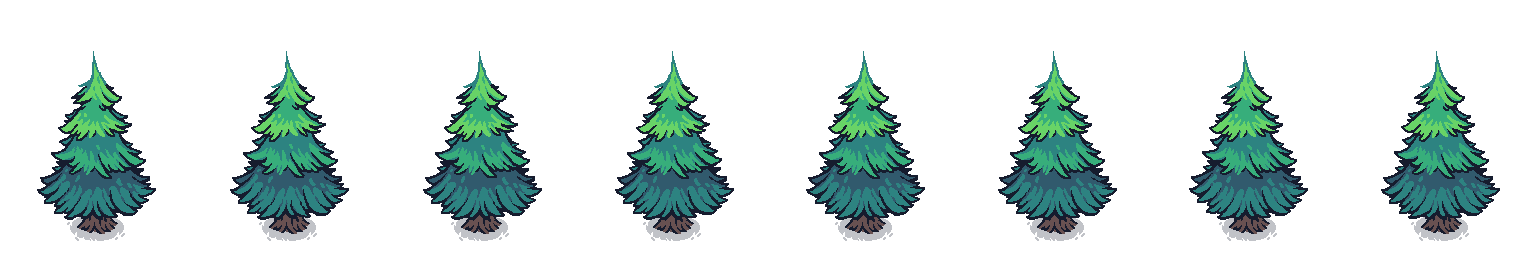
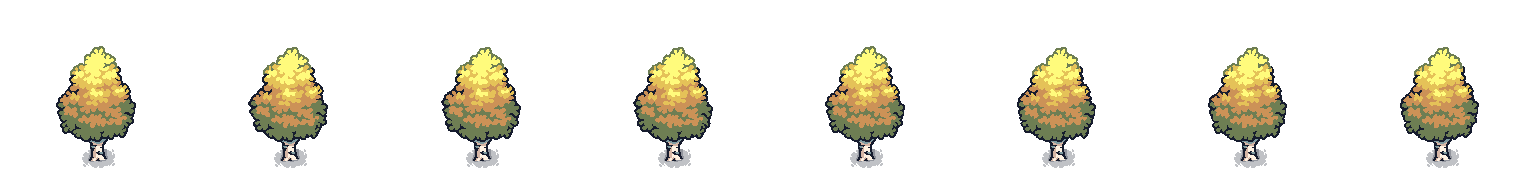
STO INIZIANDO A IMPAZZIRE

Changed region(s): [[0.0, 0.25, 1.0, 0.9375]]

diff --git a/src/view/renderer/object/TreeRenderer.java b/src/view/renderer/object/TreeRenderer.java
@@ -10,56 +10,84 @@ import java.awt.image.BufferedImage;
 import java.util.HashMap;
 import java.util.Map;
 
-import static main.CONFIG.EntityConfig.*;
 import static main.CONFIG.ObjConfig.*;
 import static main.CONFIG.enu.TreeState.*;
-/**
- * The TREE RENDERER CLASS is responsible for rendering the visual representation of the tree objects, managing their animations and states.
- */
+
 public class TreeRenderer extends ObjectRender<OBJ_Tree> {
 
     private final Map<OBJ_Tree, AnimationManager> managerByTree = new HashMap<>();
-    private final BufferedImage[] leavesFrames;
-    private final BufferedImage choppedFrame;
 
-    // TODO caricare le informazioni dal file
-    public TreeRenderer(){
-        BufferedImage sheetImage = SpriteLoader.loadSpriteSheet("/res/object/tree/Tree1.png");
+    private final BufferedImage[] leavesFrames01;
+    private final BufferedImage[] leavesFrames02;
+    private final BufferedImage[] leavesFrames03;
 
-        // Extract the tree sprite from the sprite sheet
-        leavesFrames = SpriteLoader.getAnimationFrames(sheetImage, 0, 1, 8, TREE_03_WIDTH, TREE_03_HEIGHT);
-        
-        // Fallback frame used when the tree is chopped
-        choppedFrame = SpriteLoader.loadSpriteSheet("/res/object/tree/Stump_1.png");
+    private final BufferedImage choppedFrame01;
+    private final BufferedImage choppedFrame02;
+    private final BufferedImage choppedFrame03;
+
+    public TreeRenderer() {
+        BufferedImage tree01Sheet = SpriteLoader.loadSpriteSheet("/res/object/tree/Tree1.png");
+        BufferedImage tree02Sheet = SpriteLoader.loadSpriteSheet("/res/object/tree/Tree2.png");
+        BufferedImage tree03Sheet = SpriteLoader.loadSpriteSheet("/res/object/tree/Tree3.png");
+
+        leavesFrames01 = SpriteLoader.getAnimationFrames(tree01Sheet, 0, 1, 8, TREE_01_WIDTH, TREE_01_HEIGHT);
+        leavesFrames02 = SpriteLoader.getAnimationFrames(tree02Sheet, 0, 1, 8, TREE_02_WIDTH, TREE_02_HEIGHT);
+        leavesFrames03 = SpriteLoader.getAnimationFrames(tree03Sheet, 0, 1, 8, TREE_03_WIDTH, TREE_03_HEIGHT);
+
+        choppedFrame01 = SpriteLoader.loadSpriteSheet("/res/object/tree/Stump_1.png");
+        choppedFrame02 = SpriteLoader.loadSpriteSheet("/res/object/tree/Stump_2.png");
+        choppedFrame03 = SpriteLoader.loadSpriteSheet("/res/object/tree/Stump_3.png");
+    }
+
+    private BufferedImage[] getLeavesFramesByName(String name) {
+        if (name == null) return leavesFrames03;
+        return switch (name.trim().toUpperCase()) {
+            case "TREE_01", "TREES_01" -> leavesFrames01;
+            case "TREE_02", "TREES_02" -> leavesFrames02;
+            case "TREE_03", "TREES_03" -> leavesFrames03;
+            default -> leavesFrames03;
+        };
+    }
+
+    private BufferedImage getChoppedFrameByName(String name) {
+        if (name == null) return choppedFrame03;
+        return switch (name.trim().toUpperCase()) {
+            case "TREE_01", "TREES_01" -> choppedFrame01;
+            case "TREE_02", "TREES_02" -> choppedFrame02;
+            case "TREE_03", "TREES_03" -> choppedFrame03;
+            default -> choppedFrame03;
+        };
     }
 
     private AnimationManager getManager(OBJ_Tree tree) {
         return managerByTree.computeIfAbsent(tree, t -> {
             AnimationManager manager = new AnimationManager();
-            manager.addAnimation("tree_idle", new Animation(leavesFrames, 100, true));
+
+            BufferedImage[] leavesFrames = getLeavesFramesByName(t.getName());
+            BufferedImage choppedFrame = getChoppedFrameByName(t.getName());
+
+            manager.addAnimation("tree_idle", new Animation(leavesFrames, TREE_IDLE_FRAME_MS, true));
             manager.addAnimation("tree_chopped", new Animation(new BufferedImage[]{choppedFrame}, 1000, false));
+
             return manager;
         });
     }
 
-   @Override
+    @Override
     public void update(OBJ_Tree tree, double deltaMs) {
         AnimationManager animationManager = getManager(tree);
         animationManager.playAnimation("tree_idle");
-   
-        // Se l'albero viene colpito, aggiorna più velocemente
+
         if (tree.getState() == CHOPPING) {
-            animationManager.update(deltaMs * 2.5); 
+            animationManager.update(deltaMs * 2.5);
         } else {
-            animationManager.update(deltaMs); 
-
+            animationManager.update(deltaMs);
         }
-        
-        tree.update(deltaMs);
 
+        tree.update(deltaMs);
     }
 
-   @Override
+    @Override
     public void draw(Graphics2D g2, OBJ_Tree tree, int screenX, int screenY) {
         AnimationManager animationManager = getManager(tree);
 
@@ -67,8 +95,8 @@ public class TreeRenderer extends ObjectRender<OBJ_Tree> {
         int drawY = screenY + tree.getShakeOffsetY();
 
         switch (tree.getState()) {
-
             case CHOPPED -> {
+                BufferedImage choppedFrame = getChoppedFrameByName(tree.getName());
                 g2.drawImage(choppedFrame, drawX, drawY, tree.getWidth(), tree.getHeight(), null);
             }
 
@@ -78,6 +106,4 @@ public class TreeRenderer extends ObjectRender<OBJ_Tree> {
             }
         }
     }
-
-    
 }

diff --git a/src/model/GameModel.java b/src/model/GameModel.java
@@ -7,9 +7,7 @@ import main.CONFIG.enu.GameState;
 import main.CONFIG.enu.PlayerState;
 import main.CONFIG.enu.MonkState;
 import main.CONFIG.enu.TNTState;
-import main.CONFIG.enu.TreeState;
 import main.CONFIG.GameConfig;
-import model.CollisionChecker;
 import model.entity.Player;
 import model.entity.Monk;
 import model.object.GameObject;
@@ -214,18 +212,35 @@ public class GameModel {
      */
     //-------------------------------------------------------------
     private void initialieOBJ(){
+        ObjConfig objC = gameConfig.ObjConfig();
+        Rectangle solidArea = new Rectangle(objC.TREE_03_WIDTH/2 - (objC.TREE_HITBOX_WIDTH/2),
+                195, //TODO better
+                objC.TREE_HITBOX_WIDTH,
+                objC.TREE_HITBOX_HEIGHT);
         //load the first type of tree
         for (SpawnPoint sp : gameConfig.ObjConfig().TREES_03_SPAWNPOINT()) {
-            objects.add(new OBJ_Tree(sp.x(), sp.y(), gameConfig.ObjConfig()));
+            objects.add(new OBJ_Tree(objC.TREE_TAG_03(),
+                            sp.x(), sp.y(), sp.layer(),
+                            objC.TREE_03_WIDTH, objC.TREE_03_HEIGHT,solidArea,
+                            gameConfig.ObjConfig()));
         }
+        Rectangle solidArea2 = new Rectangle(objC.TREE_02_WIDTH/2 - (objC.TREE_HITBOX_WIDTH/2),
+                135, //TODO better
+                objC.TREE_HITBOX_WIDTH,
+                objC.TREE_HITBOX_HEIGHT);
         // load the second type of tree
         for (SpawnPoint sp : gameConfig.ObjConfig().TREES_02_SPAWNPOINT()) {
-            objects.add(new OBJ_Tree(sp.x(), sp.y(), gameConfig.ObjConfig()));
-
+            objects.add(new OBJ_Tree(objC.TREE_TAG_02(),
+                    sp.x(), sp.y(), sp.layer(),
+                    objC.TREE_02_WIDTH, objC.TREE_02_HEIGHT,solidArea2,
+                    gameConfig.ObjConfig()));
         }
         // load the third type of tree
         for (SpawnPoint sp : gameConfig.ObjConfig().TREES_01_SPAWNPOINT()) {
-            objects.add(new OBJ_Tree(sp.x(), sp.y(), gameConfig.ObjConfig()));
+            objects.add(new OBJ_Tree(objC.TREE_TAG_01(),
+                    sp.x(), sp.y(), sp.layer(),
+                    objC.TREE_01_WIDTH, objC.TREE_01_HEIGHT,solidArea2,
+                    gameConfig.ObjConfig()));
         }
 
     }

diff --git a/src/view/UI/UI.java b/src/view/UI/UI.java
@@ -6,6 +6,8 @@ import model.entity.EnemyDynamite;
 import model.entity.EnemyTNT;
 import model.entity.Monk;
 import model.entity.Player;
+import model.object.GameObject;
+import model.object.OBJ_Tree;
 import view.renderer.entity.DynamiteRender;
 import view.renderer.entity.MonkRenderer;
 import view.renderer.entity.PlayerRender;
@@ -242,7 +244,8 @@ public class UI {
                 tnt.getWorldY() - gameModel.getPlayer().getWorldY() + gameModel.getPlayer().getScreenY()
                 );
             }
-            
+
+            drawTreeSolidAreas();
 
             // FPS overlay (updates every second)
             frames++;
@@ -258,6 +261,26 @@ public class UI {
             int xTile = (gameModel.getPlayer().getWorldX() + gameModel.getPlayer().getSolidArea().x )/ screenConfig.TILE_SIZE();
             int yTile = (gameModel.getPlayer().getWorldY() + gameModel.getPlayer().getSolidArea().y )/ screenConfig.TILE_SIZE();
             g2.drawString("FPS: " + fps + " PLAYER X: "+xTile+", Y:"+yTile+" L: "+gameModel.getPlayer().getCurrentLayer(), 10, 18);
+        }
+    }
+
+    private void drawTreeSolidAreas() {
+        Player player = gameModel.getPlayer();
+        for (GameObject obj : gameModel.getObjects()) {
+            if (!(obj instanceof OBJ_Tree tree)) continue;
+            if (!tree.isSolid() || tree.getSolidArea() == null) continue;
+
+            Rectangle solid = tree.getSolidArea();
+            int screenX = tree.getWorldX() - player.getWorldX() + player.getScreenX();
+            int screenY = tree.getWorldY() - player.getWorldY() + player.getScreenY();
+
+            int drawX = screenX + solid.x;
+            int drawY = screenY + solid.y;
+
+            g2.setColor(new Color(0, 255, 255, 80));
+            g2.fillRect(drawX, drawY, solid.width, solid.height);
+            g2.setColor(Color.CYAN);
+            g2.drawRect(drawX, drawY, solid.width, solid.height);
         }
     }
 

diff --git a/src/main/CONFIG/GameConfig.java b/src/main/CONFIG/GameConfig.java
@@ -39,9 +39,9 @@ public final class GameConfig {
     private static final String DYNAMITE_NAME = "Dynamite_spawnPoint";
     private static final String START_LAYER_PROP = "StartLayer";
 
-    private static final String TREE_03_NAME = "trees_03";
-    private static final String TREE_02_NAME = "trees_02";
-    private static final String TREE_01_NAME = "trees_01";
+    private static final String TREE_TAG_03 = "trees_03";
+    private static final String TREE_TAG_02 = "trees_02";
+    private static final String TREE_TAG_01 = "trees_01";
     //-------------------------------------------------------------
 
     // CONFIG
@@ -89,16 +89,16 @@ public final class GameConfig {
         ArrayList<SpawnPoint> dynamiteSpawnPoint = loadEntitySpawns(DYNAMITE_NAME);
 
         //load the tree spawns
-        ArrayList<SpawnPoint> treeSpawns03 = loadOBJSpawns(TREE_03_NAME, 3);
-        ArrayList<SpawnPoint> treeSpawns02 = loadOBJSpawns(TREE_02_NAME, 3);
-        ArrayList<SpawnPoint> treeSpawns01 = loadOBJSpawns(TREE_01_NAME, 3);
+        ArrayList<SpawnPoint> treeSpawns03 = loadOBJSpawns(TREE_TAG_03, 3);
+        ArrayList<SpawnPoint> treeSpawns02 = loadOBJSpawns(TREE_TAG_02, 2);
+        ArrayList<SpawnPoint> treeSpawns01 = loadOBJSpawns(TREE_TAG_01, 1);
 
 
         //create the config
         this.screenConfig = new ScreenConfig(TILE_SIZE, GAME_BG_COLOR);
         this.mapConfig = new MapConfig(TILE_SIZE, MAX_WORLD_COL, MAX_WORLD_ROW);
         this.entityConfig = new EntityConfig(screenConfig, playerSpawnPoint,monkSpawnPoint,tntSpawPoint);
-        this.ObjConfig = new ObjConfig(treeSpawns03, treeSpawns02, treeSpawns01);
+        this.ObjConfig = new ObjConfig(TREE_TAG_03, TREE_TAG_02, TREE_TAG_01, treeSpawns03, treeSpawns02, treeSpawns01);
         this.UIConfig = new UIConfig();
     }//end constructor
     //-------------------------------------------------------------

diff --git a/src/main/CONFIG/ObjConfig.java b/src/main/CONFIG/ObjConfig.java
@@ -10,7 +10,10 @@ import java.util.ArrayList;
  * OBJ SETTINGS
  */
 //----------------------------------------------------------------------------------------------------------------------
-public record ObjConfig(ArrayList<SpawnPoint> tree03SpawnPoint,
+public record ObjConfig(String TREE_TAG_03,
+                        String TREE_TAG_02,
+                        String TREE_TAG_01,
+                        ArrayList<SpawnPoint> tree03SpawnPoint,
                         ArrayList<SpawnPoint> tree02SpawnPoint,
                         ArrayList<SpawnPoint> tree01SpawnPoint) {
     //TREE (COMMON)
@@ -24,7 +27,6 @@ public record ObjConfig(ArrayList<SpawnPoint> tree03SpawnPoint,
     //-------------------------------------------------------------
 
     // TREE 03
-    public static final String TREE_TAG_03 = "trees_03";
     public static final int TREE_03_WIDTH = 192; //TODO from file
     public static final int TREE_03_HEIGHT = 256;
 
@@ -32,17 +34,15 @@ public record ObjConfig(ArrayList<SpawnPoint> tree03SpawnPoint,
     //-------------------------------------------------------------
 
     // TREE 02
-    public static final String TREE_TAG_02 = "trees_02";
     public static final int TREE_02_WIDTH = 192;
-    public static final int TREE_02_HEIGHT = 256;
+    public static final int TREE_02_HEIGHT = 192;
 
     public ArrayList<SpawnPoint> TREES_02_SPAWNPOINT() {return tree02SpawnPoint;}
     //-------------------------------------------------------------
 
     // TREE 01
-    public static final String TREE_TAG_01 = "trees_01";
     public static final int TREE_01_WIDTH = 192;
-    public static final int TREE_01_HEIGHT = 256;
+    public static final int TREE_01_HEIGHT = 192;
 
     public ArrayList<SpawnPoint> TREES_01_SPAWNPOINT() {return tree01SpawnPoint;}
     //-------------------------------------------------------------

diff --git a/src/model/object/OBJ_Tree.java b/src/model/object/OBJ_Tree.java
@@ -23,19 +23,17 @@ public class OBJ_Tree extends GameObject {
     private int health = objConfig.TREE_HEALTH;
     // COSTRUCTOR
     //---------------------------------------------------------------------------------------------
-    public OBJ_Tree(int worldX, int worldY, ObjConfig objConfig) {
+    public OBJ_Tree(String name, int worldX, int worldY, int layer, int width, int height, Rectangle solidArea, ObjConfig objConfig) {
         this.objConfig = objConfig;
         this.worldX = worldX;
         this.worldY = worldY;
-        this.width = objConfig.TREE_03_WIDTH;
-        this.height = objConfig.TREE_03_HEIGHT;
-        this.name = objConfig.TREE_TAG_03;
+        this.layer = layer;
+        this.width = width;
+        this.height = height;
+        this.name = name;
 
         // hitbox
-        this.solidArea = new Rectangle(objConfig.TREE_03_WIDTH/2 - (objConfig.TREE_HITBOX_WIDTH/2),
-                                       195, //TODO better
-                                          objConfig.TREE_HITBOX_WIDTH,
-                                          objConfig.TREE_HITBOX_HEIGHT);
+        this.solidArea = solidArea;
         this.solid = objConfig.TREE_SOLID;
     }
 

diff --git a/src/model/object/GameObject.java b/src/model/object/GameObject.java
@@ -10,7 +10,7 @@ import java.awt.Rectangle;
 public class GameObject {
 
     protected int worldX, worldY;
-    protected int width, height;
+    protected int width, height, layer;
     
     protected Rectangle solidArea;
     
